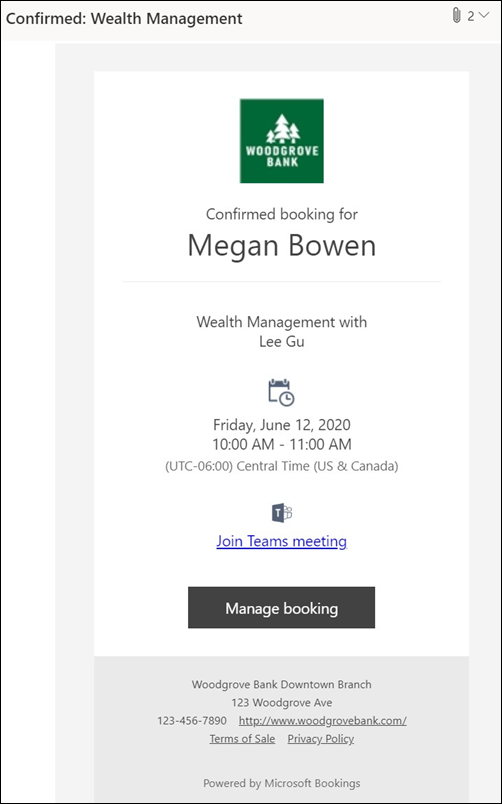
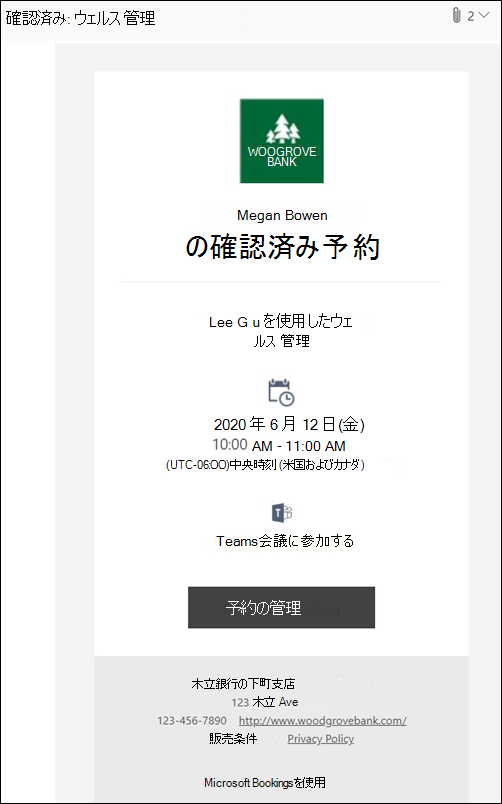
commit translated contents

diff --git a/microsoft-365/bookings/bookings-in-outlook.md b/microsoft-365/bookings/bookings-in-outlook.md
@@ -9,12 +9,12 @@ ms.service: bookings
 ms.localizationpriority: medium
 ROBOTS: NO INDEX, NO FOLLOW
 description: OutlookでBookingsを使用して、他のユーザーがOutlookで自分と一緒に会議をスケジュールできるようにします。
-ms.openlocfilehash: fb74b345a9c1985388ed4754b3f9913a46e5d9de
-ms.sourcegitcommit: 570c3be37b6ab1d59a4988f7de9c9fb5ca38028f
+ms.openlocfilehash: 9f8e1c4428133dce6f6ec9e539464271abfd8ffd
+ms.sourcegitcommit: 35d0c891f3d927f3346044be61ab9f348e8da2b4
 ms.translationtype: MT
 ms.contentlocale: ja-JP
 ms.lasthandoff: 05/12/2022
-ms.locfileid: "65363044"
+ms.locfileid: "65364281"
 ---
 # <a name="bookings-in-outlook"></a>OutlookのBookings
 
@@ -25,7 +25,7 @@ OutlookのBookingsは、Outlook予定表の空き時間情報と統合された 
 
 OutlookのBookingsには、次の 2 つの異なるビューがあります。
 
-- **開催者ビュー** 他のユーザーが予約できる会議の種類を作成できる個人用の予約ページ。 カスタム会議の種類を使用すると、会議を行うタイミングや、その会議の種類を他のユーザーと共有する方法をカスタマイズできます。 各会議の種類をスケジュール 設定ページに公開するか、非公開にするかを制御し、選択したユーザー グループのみがアクセスできます。 また、Outlook ページでBookingsを通じて予約されたすべての会議にTeams会議を追加することもできます。 Outlook on the webまたはOutlookページでBookingsに[https://outlook.office.com/bookwithme/](https://outlook.office.com/bookwithme/)アクセスできます。 ページを設定して発行したら、他のユーザーと共有できます。 たとえば、Outlook署名に追加できます。
+- **開催者ビュー** 他のユーザーが予約できる会議の種類を作成できる個人用の予約ページ。 カスタム会議の種類を使用すると、会議を行うタイミングや、その会議の種類を他のユーザーと共有する方法をカスタマイズできます。 各会議の種類をスケジュール 設定ページに公開するか、非公開にするかを制御し、選択したユーザー グループのみがアクセスできます。 また、Outlook ページでBookingsを通じて予約されたすべての会議にTeams会議を追加することもできます。 Outlook on the webからOutlookページでBookingsにアクセスできます。 ページを設定して発行したら、他のユーザーと共有できます。 たとえば、Outlook署名に追加できます。
 
 - **[スケジュール] ビュー** Outlook ページでBookingsを他のユーザーと共有すると、スケジュール 設定ビューが表示されます。 スケジュール 設定ビューに表示される会議は、Outlook ページでBookingsへのリンクをパブリック会議と共有したか、個々の会議のプライベート リンクを共有したかによって異なります。
     - パブリック会議は、Outlook ページ リンクにBookingsがあるすべてのユーザーが表示およびスケジュール設定できます。 そのリンクを共有するユーザーを制御できます。 すべてのパブリック会議の種類は、Outlookページ リンクにBookingsがあるすべてのユーザーに表示されます。
